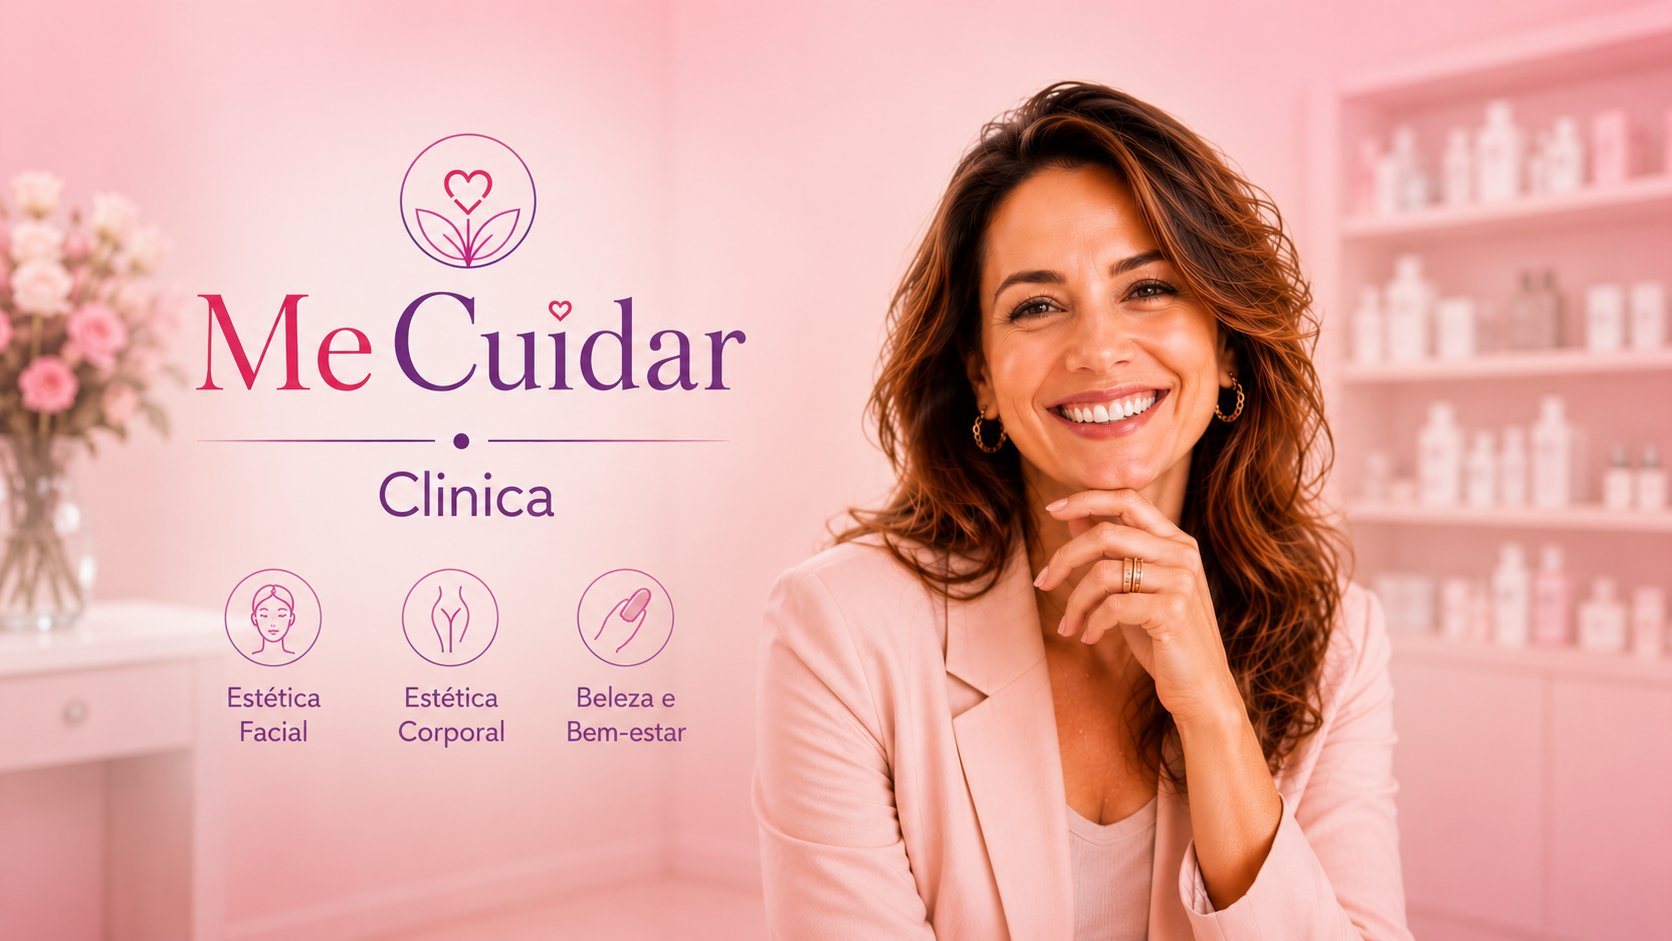
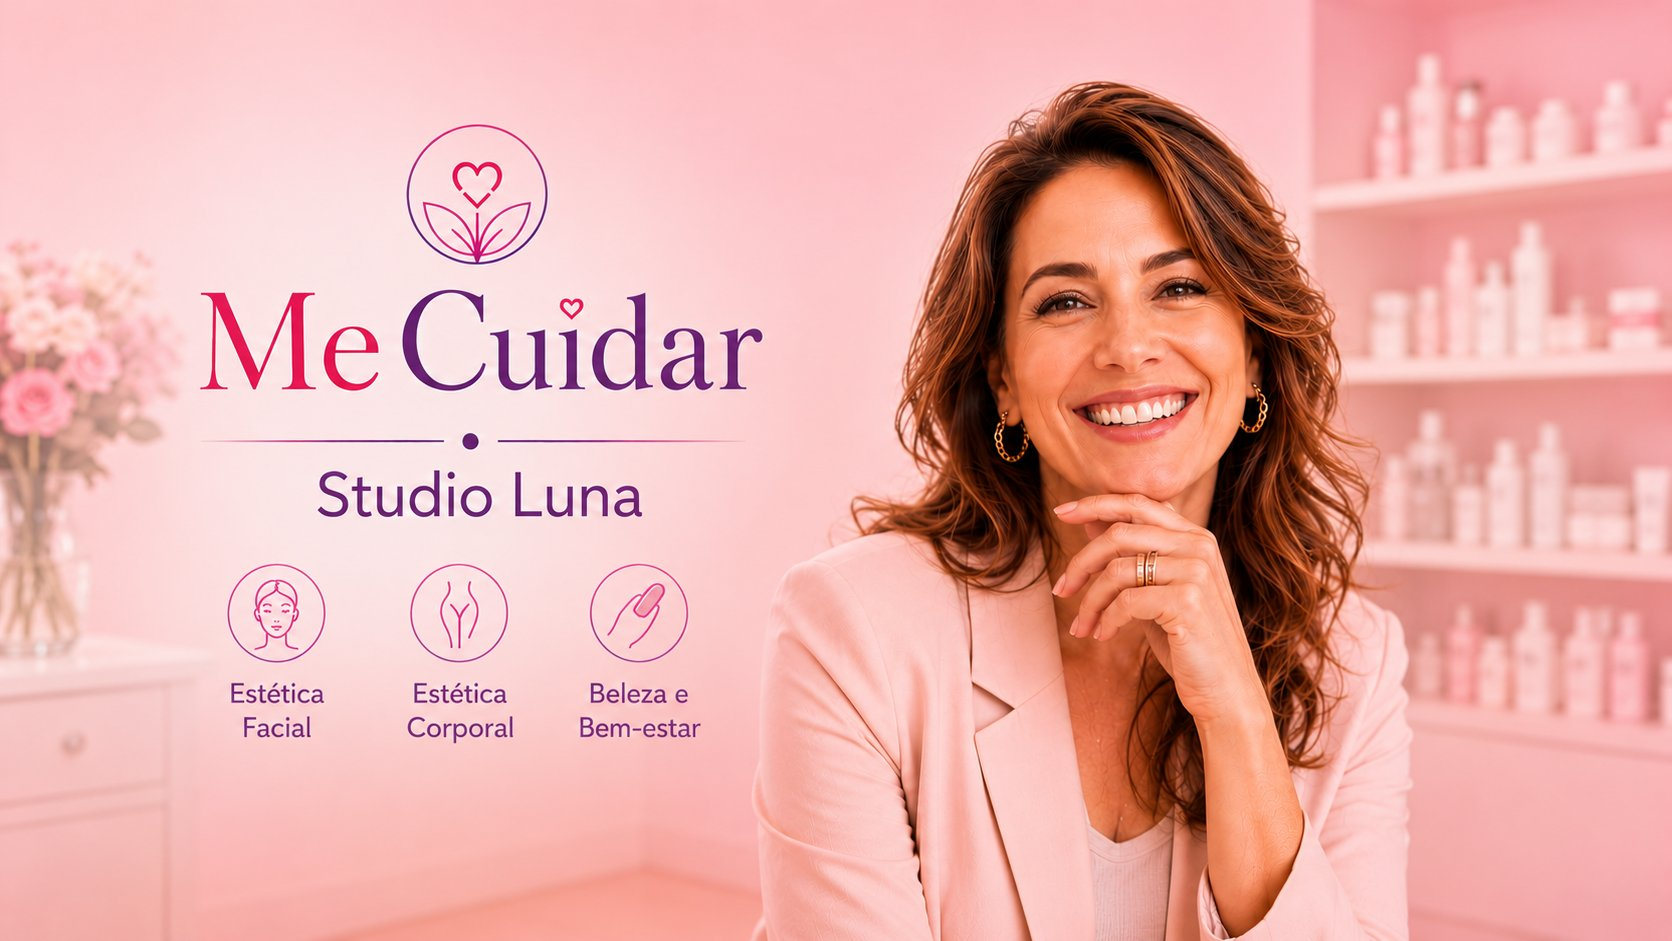
Add files via upload

diff --git a/belezza/index.html b/belezza/index.html
@@ -3,7 +3,7 @@
 <head>
 <meta charset="UTF-8">
 <meta name="viewport" content="width=device-width, initial-scale=1.0, interactive-widget=resizes-content">
-<title>Belezza — Studio Luna v1.9.0</title>
+<title>Belezza — Studio Luna v2.0.1</title>
 <link rel="preconnect" href="https://cdn.jsdelivr.net">
 <link rel="stylesheet" href="https://cdn.jsdelivr.net/npm/@tabler/icons-webfont@3.19.0/dist/tabler-icons.min.css" crossorigin="anonymous">
 <link rel="stylesheet" href="https://unpkg.com/@tabler/icons-webfont@3.19.0/dist/tabler-icons.min.css" media="print" onload="this.media='all';this.onload=null" crossorigin="anonymous">
@@ -573,7 +573,12 @@ function openHelp(){ if(window.openHelp) window.openHelp(); }
       <div id="ag-view-hoje">
         <div class="sec-lbl" style="margin-top:1rem" id="ag-hoje-lbl">Confirmados — hoje</div>
         <div id="ag-hoje-lista"></div>
-        <div class="sec-lbl" style="margin-top:1rem">Horários disponíveis — hoje</div>
+        <div style="display:flex;align-items:center;justify-content:space-between;margin-top:1rem;margin-bottom:6px">
+          <div class="sec-lbl" style="margin-bottom:0">Horários disponíveis</div>
+          <select id="slots-prof-sel" style="font-size:11px;padding:4px 8px;border-radius:var(--r);border:1px solid var(--br);background:var(--bg2);color:var(--tx)" onchange="renderSlots()">
+            <option value="geral">Todas as profissionais</option>
+          </select>
+        </div>
         <div class="avail-grid" id="avail-grid"></div>
         <div style="display:flex;gap:10px;font-size:11px;color:var(--tx2);flex-wrap:wrap;margin-top:6px">
           <span style="display:flex;align-items:center;gap:4px"><span style="width:10px;height:10px;border-radius:3px;background:var(--bg);border:1px solid var(--br);display:inline-block"></span>Disponível</span>
@@ -1548,49 +1553,72 @@ function atualizarPendentes(){
 
 function adicionarConfirmado(ag){
   if(!ag) return;
-  const hdr = document.querySelector('#pane-p-agenda .day-hdr');
-  if(!hdr) return;
-  const card = document.createElement('div');
-  card.className = 'ag-card';
-  card.innerHTML = `<div class="ag-time">${ag.data}</div><div class="ag-bar" style="background:var(--pk400)"></div><div class="ag-info"><div class="ag-svc">${ag.servico} — ${ag.cliente}</div><div class="ag-meta"><i class="ti ti-clock" style="font-size:11px"></i>${ag.hora} · ${ag.prof} · <span style="color:var(--pk600);font-size:10px">${ag.origem}</span></div></div><span class="badge badge-ok">Confirmado</span>`;
-  hdr.insertAdjacentElement('afterend', card);
+  // Atualiza a view ativa da agenda
+  if(typeof agView !== 'undefined'){
+    if(agView==='hoje')   renderAgHoje();
+    else if(agView==='semana') renderAgSemana();
+    else if(agView==='mes')    renderAgMes();
+  }
 }
 
 function abrirModalAg(){
-  const hoje = new Date().toISOString().split('T')[0];
-  const dataEl = document.getElementById('ag-data');
-  if(dataEl){
-    dataEl.min = hoje;
-    dataEl.value = hoje;
-    dataEl.addEventListener('change', function(){
-      const preview = document.getElementById('ag-data-preview');
-      if(preview && this.value){
-        const d = new Date(this.value + 'T00:00:00');
-        const dias = ['Dom','Seg','Ter','Qua','Qui','Sex','Sáb'];
-        const meses = ['jan','fev','mar','abr','mai','jun','jul','ago','set','out','nov','dez'];
-        preview.textContent = dias[d.getDay()] + ', ' + d.getDate() + ' de ' + meses[d.getMonth()];
-      }
-    });
-    // Dispara para mostrar data inicial
-    dataEl.dispatchEvent(new Event('change'));
+  // Popula selects de Dia / Mês / Ano
+  const hoje = new Date();
+  const diaEl  = document.getElementById('ag-dia');
+  const mesEl  = document.getElementById('ag-mes-sel');
+  const anoEl  = document.getElementById('ag-ano');
+  if(diaEl && mesEl && anoEl){
+    diaEl.innerHTML  = Array.from({length:31},(_,i)=>`<option value="${String(i+1).padStart(2,'0')}">${String(i+1).padStart(2,'0')}</option>`).join('');
+    const nomMes=['Jan','Fev','Mar','Abr','Mai','Jun','Jul','Ago','Set','Out','Nov','Dez'];
+    mesEl.innerHTML  = nomMes.map((m,i)=>`<option value="${String(i+1).padStart(2,'0')}">${m}</option>`).join('');
+    const anoAtual   = hoje.getFullYear();
+    anoEl.innerHTML  = [anoAtual, anoAtual+1].map(a=>`<option value="${a}">${a}</option>`).join('');
+    diaEl.value      = String(hoje.getDate()).padStart(2,'0');
+    mesEl.value      = String(hoje.getMonth()+1).padStart(2,'0');
+    anoEl.value      = String(anoAtual);
+    previewDataAg();
   }
   document.getElementById('modal-novo-ag').style.display = 'flex';
+}
+function previewDataAg(){
+  const dia = document.getElementById('ag-dia')?.value;
+  const mes = document.getElementById('ag-mes-sel')?.value;
+  const ano = document.getElementById('ag-ano')?.value;
+  if(!dia||!mes||!ano) return;
+  // Atualiza hidden input legível por salvarNovoAg
+  const hidden = document.getElementById('ag-data');
+  if(hidden) hidden.value = ano+'-'+mes+'-'+dia;
+  const d = new Date(parseInt(ano), parseInt(mes)-1, parseInt(dia));
+  const semana = ['Dom','Seg','Ter','Qua','Qui','Sex','Sáb'];
+  const meses  = ['janeiro','fevereiro','março','abril','maio','junho','julho','agosto','setembro','outubro','novembro','dezembro'];
+  const preview = document.getElementById('ag-data-preview');
+  if(preview) preview.textContent = semana[d.getDay()] + ', ' + parseInt(dia) + ' de ' + meses[d.getMonth()] + ' de ' + ano;
 }
 function fecharModalAg(){
   document.getElementById('modal-novo-ag').style.display = 'none';
   document.getElementById('ag-toast').style.display = 'none';
 }
 function salvarNovoAg(){
-  const cliente = document.getElementById('ag-cliente').value;
-  const servico = document.getElementById('ag-servico').value;
-  const data    = document.getElementById('ag-data').value;
-  const hora    = document.getElementById('ag-hora').value;
-  const prof    = document.getElementById('ag-prof').value;
-  const origem  = document.getElementById('ag-origem').value;
-  if(!cliente || !servico || !data){ alert('Preencha cliente, serviço e data.'); return; }
+  const clienteEl = document.getElementById('ag-cliente');
+  const servicoEl = document.getElementById('ag-servico');
+  const dataEl    = document.getElementById('ag-data');
+  const horaEl    = document.getElementById('ag-hora');
+  const profEl    = document.getElementById('ag-prof');
+  const origemEl  = document.getElementById('ag-origem');
+  const cliente   = clienteEl ? clienteEl.options[clienteEl.selectedIndex]?.text || clienteEl.value : '';
+  const servico   = servicoEl ? servicoEl.value : '';
+  const data      = dataEl    ? dataEl.value : '';
+  const hora      = horaEl    ? horaEl.value : '';
+  const profNome  = profEl    ? (profEl.options[profEl.selectedIndex]?.text || profEl.value) : '';
+  const origem    = origemEl  ? origemEl.value : '';
+  if(!cliente || cliente==='Selecione...' || !servico || !data){
+    alert('Preencha cliente, serviço e data.'); return;
+  }
   const d = new Date(data + 'T00:00:00');
   const dataFmt = String(d.getDate()).padStart(2,'0') + '/' + String(d.getMonth()+1).padStart(2,'0');
-  const profAbrev = prof.split(' ')[0] + ' ' + prof.split(' ')[1][0] + '.';
+  // Abrevia nome da profissional com segurança
+  const partes = profNome.trim().split(' ');
+  const profAbrev = partes.length >= 2 ? partes[0] + ' ' + partes[1][0] + '.' : profNome;
   const novoAg = { id:'ag-'+Date.now(), cliente, servico, data:dataFmt, hora, prof:profAbrev, origem, status:'confirmado' };
   agendamentos.push(novoAg);
   adicionarConfirmado(novoAg);
@@ -2018,10 +2046,11 @@ function abrirPerfilCliente(id){
         ${c.obs ? `<div style="background:var(--am50);border-radius:var(--r);padding:6px 8px;font-size:11px;color:var(--am800)"><i class="ti ti-note"></i> ${c.obs}</div>` : ''}
       </div>
     </div>
-    <div style="display:flex;gap:8px">
+    <div style="display:flex;gap:8px;margin-bottom:8px">
       <button class="btn tl" style="flex:1" onclick="window.open('https://wa.me/55${c.wpp.replace(/\D/g,'')}','_blank')"><i class="ti ti-brand-whatsapp"></i> WhatsApp</button>
       <button class="btn pk" style="flex:1" onclick="fecharPerfilCliente();abrirModalAg()"><i class="ti ti-calendar-plus"></i> Agendar</button>
-    </div>`;
+    </div>
+    <button class="btn" style="width:100%" onclick="editarCliente('${c.id}')"><i class="ti ti-pencil"></i> Editar dados</button>`;
   drawer.style.display = 'flex';
 }
 
@@ -2268,6 +2297,7 @@ function detalhesDia(key){
   alert(key + ':\n' + ags.map(a => a.hora + ' — ' + a.servico + ' · ' + a.cliente).join('\n'));
 }
 
+window.previewDataAg = previewDataAg;
 window.setAgView   = setAgView;
 window.navSemana   = navSemana;
 window.navMes      = navMes;
@@ -2403,9 +2433,14 @@ function salvarProfissional(){
 
   const idx = editId ? equipeDB.findIndex(x => x.id === editId) : -1;
 
+  // Calcula se está ativa hoje (baseado nos dias selecionados)
+  const diasSemana = ['Dom','Seg','Ter','Qua','Qui','Sex','Sab'];
+  const diaHoje = diasSemana[new Date().getDay()];
+  const ativaHoje = disp.length === 0 || disp.includes(diaHoje);
+
   if(idx >= 0){
     // Edição
-    equipeDB[idx] = { ...equipeDB[idx], nome, wpp, sexo, espec, disp, ticket, avaliacao:aval, domicilio:dom, obs };
+    equipeDB[idx] = { ...equipeDB[idx], nome, wpp, sexo, espec, disp, ticket, avaliacao:aval, domicilio:dom, obs, ativa:ativaHoje };
     // Atualiza select de profissional no modal de agendamento
     atualizarSelectProfissional();
     mostrarToastProf('Profissional atualizada!');
@@ -2415,7 +2450,7 @@ function salvarProfissional(){
     const seed = nome.replace(/\s/g,'') + id.slice(-4);
     const bgColor = BG_CORES[equipeDB.length % BG_CORES.length];
     equipeDB.push({id, nome, wpp, sexo, espec, disp, ticket, avaliacao:aval,
-      domicilio:dom, obs, ativa:true, agMes:0, seed, bgColor});
+      domicilio:dom, obs, ativa:ativaHoje, agMes:0, seed, bgColor});
     // Adiciona no select de agendamento
     atualizarSelectProfissional();
     mostrarToastProf('Profissional cadastrada!');
@@ -2465,18 +2500,99 @@ window.atualizarSelectProfissional = atualizarSelectProfissional;
 
 // Inicializa lista ao carregar
 document.addEventListener('DOMContentLoaded', () => {
+  // Recalcula ativa para as profissionais do DB com base no dia de hoje
+  const diasSemana = ['Dom','Seg','Ter','Qua','Qui','Sex','Sab'];
+  const diaHoje = diasSemana[new Date().getDay()];
+  equipeDB.forEach(p => { p.ativa = p.disp.length === 0 || p.disp.includes(diaHoje); });
   renderEquipe(equipeDB);
   atualizarSelectProfissional();
+  // Popula select de profissional nos slots
+  const slotsSel = document.getElementById('slots-prof-sel');
+  if(slotsSel){
+    slotsSel.innerHTML = '<option value="geral">Todas as profissionais</option>' +
+      equipeDB.map(p => `<option value="${p.id}">${p.nome.split(' ')[0]} ${p.nome.split(' ')[1]?.[0]||''}.</option>`).join('');
+  }
 });
 
 // ── Expor funções globalmente (necessário com type="module") ──────────────
 window.initDashboard        = initDashboard;
+
+function editarCliente(id){
+  const c = clientesDB.find(x => x.id === id);
+  if(!c) return;
+  fecharPerfilCliente();
+  // Preenche o modal de cadastro com os dados existentes
+  document.getElementById('nc-nome').value      = c.nome || '';
+  document.getElementById('nc-wpp').value       = c.wpp  || '';
+  document.getElementById('nc-email').value     = c.email || '';
+  document.getElementById('nc-nasc').value      = c.nasc  || '';
+  document.getElementById('nc-interesse').value = c.interesse || '';
+  document.getElementById('nc-alergias').value  = c.alergias || '';
+  document.getElementById('nc-obs').value       = c.obs  || '';
+  const origemSel = document.getElementById('nc-origem');
+  if(origemSel) origemSel.value = c.origem || '';
+  document.querySelectorAll('input[name="nc-sexo"]').forEach(r => r.checked = r.value === c.sexo);
+  // Marca que é edição, não novo cadastro
+  const modal = document.getElementById('modal-cli');
+  const titulo = modal.querySelector('div[style*="font-size:15px"]');
+  if(titulo) titulo.textContent = 'Editar Cliente';
+  const btnCad = modal.querySelector('button.btn.pk');
+  if(btnCad){ btnCad.innerHTML = '<i class="ti ti-device-floppy"></i> Salvar'; btnCad.setAttribute('onclick','salvarEdicaoCliente(\'' + id + '\')'); }
+  document.getElementById('nc-error').textContent = '';
+  document.getElementById('nc-toast').style.display = 'none';
+  modal.style.display = 'flex';
+}
+
+function salvarEdicaoCliente(id){
+  const nome = document.getElementById('nc-nome').value.trim();
+  const wpp  = document.getElementById('nc-wpp').value.trim();
+  if(!nome || !wpp){ document.getElementById('nc-error').textContent = 'Nome e WhatsApp são obrigatórios.'; return; }
+  const idx = clientesDB.findIndex(x => x.id === id);
+  if(idx < 0) return;
+  const sexo = document.querySelector('input[name="nc-sexo"]:checked')?.value || clientesDB[idx].sexo;
+  clientesDB[idx] = {
+    ...clientesDB[idx],
+    nome, wpp, sexo,
+    email:      document.getElementById('nc-email').value,
+    nasc:       document.getElementById('nc-nasc').value,
+    origem:     document.getElementById('nc-origem').value,
+    interesse:  document.getElementById('nc-interesse').value,
+    alergias:   document.getElementById('nc-alergias').value,
+    obs:        document.getElementById('nc-obs').value,
+  };
+  // Atualiza card na lista
+  const lista = document.getElementById('clientes-lista');
+  if(lista){
+    const rows = lista.querySelectorAll('.cli-row');
+    rows.forEach(row => {
+      if(row.onclick && row.onclick.toString().includes(id)){
+        const nomeEl = row.querySelector('.row-name');
+        const wppEl  = row.querySelector('.cli-wpp');
+        if(nomeEl) nomeEl.innerHTML = nome + ' <span style="font-size:10px;color:var(--tx3);font-weight:400">· ' + sexo + '</span>';
+        if(wppEl)  wppEl.innerHTML  = '<i class="ti ti-brand-whatsapp" style="font-size:11px"></i>' + wpp;
+        row.dataset.busca = nome + ' ' + wpp;
+      }
+    });
+  }
+  const toast = document.getElementById('nc-toast');
+  const toastMsg = toast.querySelector ? toast : toast;
+  if(toast){ toast.innerHTML = '<i class="ti ti-circle-check" style="font-size:18px"></i> Dados atualizados!'; toast.style.display = 'flex'; }
+  // Restaura modal para modo cadastro
+  const modal = document.getElementById('modal-cli');
+  const titulo = modal.querySelector('div[style*="font-size:15px"]');
+  if(titulo) titulo.textContent = 'Cadastrar Cliente';
+  const btnCad = modal.querySelector('button.btn.pk');
+  if(btnCad){ btnCad.innerHTML = '<i class="ti ti-user-plus"></i> Cadastrar'; btnCad.setAttribute('onclick','salvarCliente()'); }
+  setTimeout(() => fecharModalCliente(), 1800);
+}
 window.filtrarClientes      = filtrarClientes;
 window.abrirPerfilCliente   = abrirPerfilCliente;
 window.fecharPerfilCliente  = fecharPerfilCliente;
 window.abrirModalCliente    = abrirModalCliente;
 window.fecharModalCliente   = fecharModalCliente;
 window.salvarCliente        = salvarCliente;
+window.editarCliente        = editarCliente;
+window.salvarEdicaoCliente  = salvarEdicaoCliente;
 window.toggleFaq = toggleFaq;
 window.filterCat = filterCat;
 window.filterFaq = filterFaq;
@@ -2538,6 +2654,8 @@ function salvarCliente(){ try{ window.salvarCliente && window.salvarCliente(); }
 function abrirPerfilCliente(id){ try{ window.abrirPerfilCliente && window.abrirPerfilCliente(id); }catch(e){} }
 function fecharPerfilCliente(){ try{ window.fecharPerfilCliente && window.fecharPerfilCliente(); }catch(e){} }
 function filtrarClientes(q){ try{ window.filtrarClientes && window.filtrarClientes(q); }catch(e){} }
+function editarCliente(id){ try{ window.editarCliente && window.editarCliente(id); }catch(e){} }
+function salvarEdicaoCliente(id){ try{ window.salvarEdicaoCliente && window.salvarEdicaoCliente(id); }catch(e){} }
 function abrirModalAg(){ try{ window._abrirModalAg && window._abrirModalAg(); }catch(e){console.error('abrirModalAg:',e);} }
 function fecharModalAg(){ try{ window._fecharModalAg && window._fecharModalAg(); }catch(e){} }
 function salvarNovoAg(){ try{ window._salvarNovoAg && window._salvarNovoAg(); }catch(e){console.error('salvarNovoAg:',e);} }
@@ -2551,6 +2669,7 @@ function setAgView(v,el){ try{ window.setAgView && window.setAgView(v,el); }catc
 function navSemana(d){ try{ window.navSemana && window.navSemana(d); }catch(e){} }
 function navMes(d){ try{ window.navMes && window.navMes(d); }catch(e){} }
 function detalhesDia(k){ try{ window.detalhesDia && window.detalhesDia(k); }catch(e){} }
+function previewDataAg(){ try{ window.previewDataAg && window.previewDataAg(); }catch(e){} }
 </script>
 
 <!-- LOGIN CLIENTE -->
@@ -2606,37 +2725,7 @@ function detalhesDia(k){ try{ window.detalhesDia && window.detalhesDia(k); }catc
       <img class="mob" src="hero-cliente.jpg" alt="MeCuidar">
       <!-- Desktop/Tablet: imagem landscape 16:9 -->
       <img class="dsk" src="hero-cliente-desktop.jpg" alt="MeCuidar">
-      <!-- Studio Luna overlay — entre MeCuidar e o traço/ponto -->
-      <div id="sln-overlay" style="
-        position:absolute;
-        pointer-events:none;
-        z-index:2;
-        font-weight:700;
-        letter-spacing:.22em;
-        text-transform:uppercase;
-        color:#6B2D8B;
-        font-family:Georgia,serif;
-        white-space:nowrap;
-        background:transparent;
-        padding:0;
-        top:24%;
-        left:50%;
-        transform:translateX(-50%);
-        font-size:clamp(9px,3.2vw,13px);
-        text-shadow:none;
-      ">Studio Luna</div>
-      <style>
-        @media(min-width:700px){
-          #sln-overlay{
-            top:43% !important;
-            left:20% !important;
-            transform:none !important;
-            font-size:15px !important;
-            letter-spacing:.22em !important;
-          }
-        }
-      </style>
-      <div style="position:absolute;bottom:0;left:0;right:0;height:60px;background:linear-gradient(to bottom,transparent,#9B3D8B)"></div>
+
     </div>
 
     <div id="cli-form">
@@ -2989,7 +3078,12 @@ function detalhesDia(k){ try{ window.detalhesDia && window.detalhesDia(k); }catc
     <div style="display:grid;grid-template-columns:1fr 1fr;gap:10px;margin-bottom:12px">
       <div>
         <label style="font-size:11px;font-weight:700;color:var(--tx2);display:block;margin-bottom:4px;text-transform:uppercase;letter-spacing:.04em">Data</label>
-        <input type="date" id="ag-data" style="width:100%;padding:9px 12px;border-radius:var(--r);border:1px solid var(--br);font-size:13px;background:var(--bg2);color:var(--tx)" lang="pt-BR">
+        <div style="display:flex;gap:5px;align-items:center">
+          <select id="ag-dia" style="flex:1;padding:9px 8px;border-radius:var(--r);border:1px solid var(--br);font-size:13px;background:var(--bg2);color:var(--tx)" onchange="previewDataAg()"></select>
+          <select id="ag-mes-sel" style="flex:1.4;padding:9px 8px;border-radius:var(--r);border:1px solid var(--br);font-size:13px;background:var(--bg2);color:var(--tx)" onchange="previewDataAg()"></select>
+          <select id="ag-ano" style="flex:1.2;padding:9px 8px;border-radius:var(--r);border:1px solid var(--br);font-size:13px;background:var(--bg2);color:var(--tx)" onchange="previewDataAg()"></select>
+        </div>
+        <input type="hidden" id="ag-data">
         <div id="ag-data-preview" style="font-size:11px;color:var(--tx2);margin-top:3px;text-align:center"></div>
       </div>
       <div>